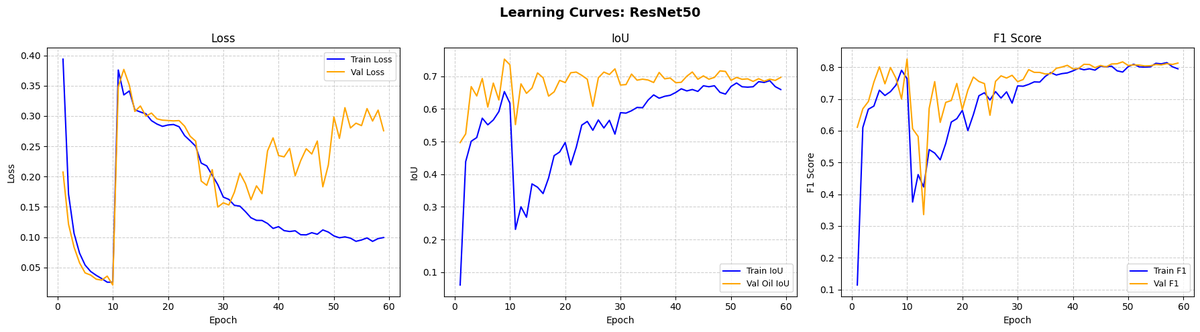
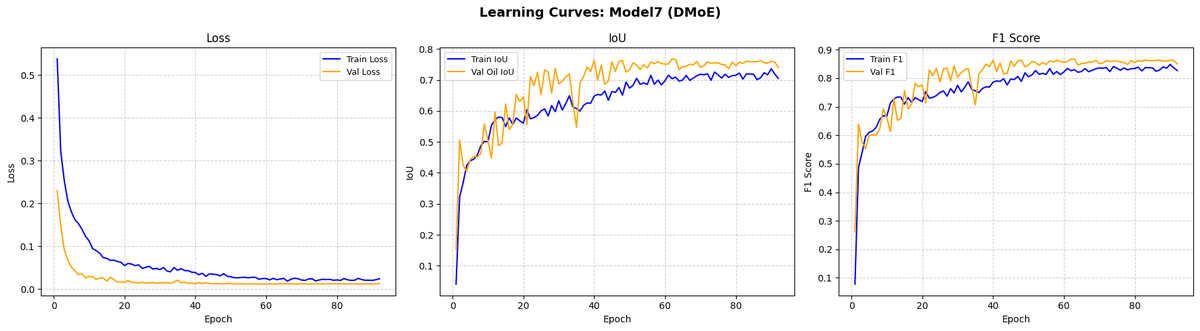
Replace training history figure with DMoE (selected model) learning curves

diff --git a/README.md b/README.md
@@ -32,7 +32,7 @@ Qualitative test-set predictions (SAR input, ground truth, model prediction):
 
 ![Qualitative predictions](figures/qualitative_predictions.jpg)
 
-Training and validation history across models:
+Training and validation history of the selected dual-attention MoE model (loss, oil IoU, F1):
 
 ![Training history](figures/training_history.png)
 